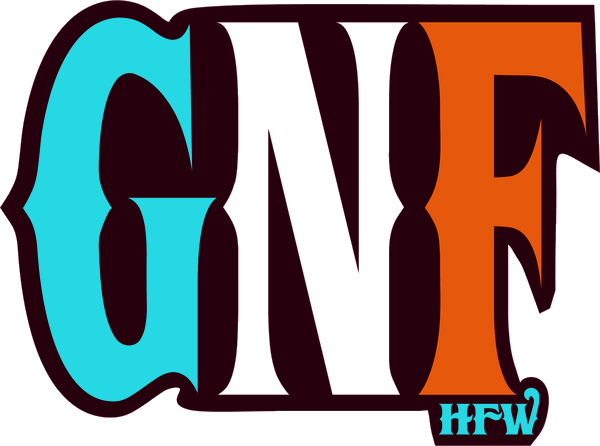
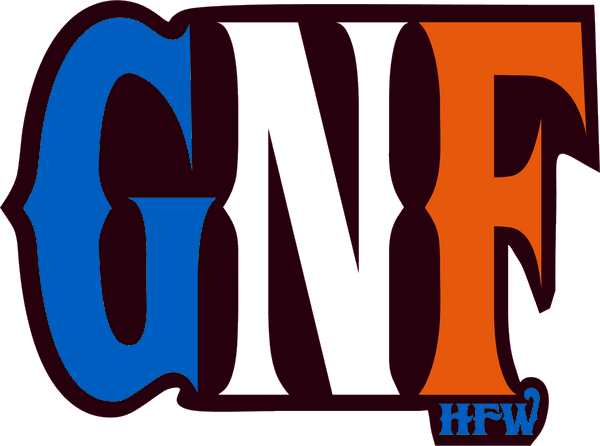
Fix overlapping stickers + remove all light blue from graphics
FIXES:
1. LIGHT BLUE → DARK BLUE: Pixel-level color correction on 3 stickers:
   - sticker-gnf-redblue.png: 39,963 light blue/teal pixels (R:38,G:198-228,B:202-228)
     → dark blue (R:1, G:64-94, B:140-193). Version bumped v=15
   - sticker-myob.png: 1,089 light blue pixels → dark blue. Version v=15
   - sticker-put-it-on-em.png: 442 light blue pixels → dark blue. Version v=15
   All blue now matches the sticker-gnf.png reference range (R:0, G:68-99, B:143-209)

2. OVERLAPPING FIXED: Switched from % positioning to fixed px edges:
   - All edge stickers now use 10px margin from container edge
   - Top row: 4 stickers at top:8-10px, corners at left/right:10px,
     inner pair at left/right:20%
   - Side columns: 2 per side at 28%/55% (left) and 26%/55% (right)
     with sufficient vertical gap for tall stickers
   - Bottom row: 4 stickers at bottom:10px, same horizontal pattern as top
   - Fill stickers: HFW and ThumpinLovin at bottom:20% on each side
   - Hero min-height: 75vh → 85vh for more vertical breathing room

3. Stickers sized smaller to prevent overlap:
   - Reduced from 90-150px to 78-140px range
   - Tall stickers (FunRide, ObamaTap, YesYouCan, ThumpinLovin) sized
     at 78-85px width to limit their height impact

Console errors: 0

Changed region(s): [[0.03, 0.0291, 0.36, 0.9036], [0.72, 0.8744, 0.9, 0.991]]

diff --git a/src/index.tsx b/src/index.tsx
@@ -221,8 +221,8 @@ const graphics = [
   {
     id: 'myob',
     name: 'MYOB (Mind Y\'own Business)',
-    thumbnail: '/images/stickers/sticker-myob.png?v=13',
-    fullImage: '/images/stickers/sticker-myob.png?v=13',
+    thumbnail: '/images/stickers/sticker-myob.png?v=15',
+    fullImage: '/images/stickers/sticker-myob.png?v=15',
     restrictToGarments: []
   },
   {
@@ -256,8 +256,8 @@ const graphics = [
   {
     id: 'put-it-on-em',
     name: 'Put It On Em',
-    thumbnail: '/images/stickers/sticker-put-it-on-em.png?v=13',
-    fullImage: '/images/stickers/sticker-put-it-on-em.png?v=13',
+    thumbnail: '/images/stickers/sticker-put-it-on-em.png?v=15',
+    fullImage: '/images/stickers/sticker-put-it-on-em.png?v=15',
     restrictToGarments: []
   },
   {
@@ -371,7 +371,7 @@ const decals = [
   { id: 'd2', title: 'Decal - Cling to Guns', vendor: 'Hillbilly Fightwear', price: '$7.00', priceNum: 7, image: '/images/stickers/sticker-your-neck.png?v=13', type: 'decal' },
   { id: 'd3', title: 'Decal - Human Cockfighter', vendor: 'Hillbilly Fightwear', price: '$7.00', priceNum: 7, image: '/images/stickers/sticker-hcf.png?v=13', type: 'decal' },
   { id: 'd4', title: 'Decal - Fun Ride', vendor: 'Hillbilly Fightwear', price: '$7.00', priceNum: 7, image: '/images/stickers/sticker-fun-ride.png?v=13', type: 'decal' },
-  { id: 'd5', title: 'Decal - Put It On Em', vendor: 'Hillbilly Fightwear', price: '$7.00', priceNum: 7, image: '/images/stickers/sticker-put-it-on-em.png?v=13', type: 'decal' },
+  { id: 'd5', title: 'Decal - Put It On Em', vendor: 'Hillbilly Fightwear', price: '$7.00', priceNum: 7, image: '/images/stickers/sticker-put-it-on-em.png?v=15', type: 'decal' },
   { id: 'd6', title: 'Decal - Thump a Stranger', vendor: 'Hillbilly Fightwear', price: '$7.00', priceNum: 7, image: '/images/stickers/sticker-thump.png?v=13', type: 'decal' },
   { id: 'd7', title: 'Decal - Yes You Can', vendor: 'Hillbilly Fightwear', price: '$7.00', priceNum: 7, image: '/images/stickers/sticker-yes-you-can.png?v=13', type: 'decal' },
   { id: 'd8', title: 'Decal - Obama Tap', vendor: 'Hillbilly Fightwear', price: '$7.00', priceNum: 7, image: '/images/stickers/sticker-obama-tap.png?v=13', type: 'decal' },
@@ -380,7 +380,7 @@ const decals = [
   { id: 'd11', title: 'Decal - GNF Red/Blue', vendor: 'Hillbilly Fightwear', price: '$7.00', priceNum: 7, image: '/images/stickers/sticker-gnf-redblue.png?v=15', type: 'decal' },
   { id: 'd12', title: 'Decal - Thumpin Is Lovin', vendor: 'Hillbilly Fightwear', price: '$7.00', priceNum: 7, image: '/images/stickers/sticker-thumpin-is-lovin.png?v=13', type: 'decal' },
   { id: 'd13', title: 'Decal - Good for Community', vendor: 'Hillbilly Fightwear', price: '$7.00', priceNum: 7, image: '/images/stickers/sticker-community.png?v=13', type: 'decal' },
-  { id: 'd14', title: 'Decals - Mind Yown Business', vendor: 'Hillbilly Fightwear', price: '$7.00', priceNum: 7, image: '/images/stickers/sticker-myob.png?v=13', type: 'decal' }
+  { id: 'd14', title: 'Decals - Mind Yown Business', vendor: 'Hillbilly Fightwear', price: '$7.00', priceNum: 7, image: '/images/stickers/sticker-myob.png?v=15', type: 'decal' }
 ]
 
 // Combined shopProducts for API endpoint
@@ -1205,7 +1205,7 @@ app.get('/', (c) => {
     .scrapbook-hero {
       position: relative;
       width: 100%;
-      min-height: 75vh;
+      min-height: 85vh;
       background: #f5f5f0;
       overflow: hidden;
       display: flex;
@@ -1335,50 +1335,68 @@ app.get('/', (c) => {
        Rotations vary -8 to +8 deg for messy scrapbook feel.
        ======================================================= */
 
-    /* --- TOP ROW: 4 stickers spread evenly across the top --- */
-    .sticker-collage .sticker-1  { top: 2%;  left: 2%;   width: 150px; transform: rotate(-5deg);  --hover-rotate: rotate(-2deg); }  /* HCF wide 600x341 */
-    .sticker-collage .sticker-4  { top: 1%;  left: 22%;  width: 130px; transform: rotate(4deg);   --hover-rotate: rotate(2deg); }   /* Thump wide 600x481 */
-    .sticker-collage .sticker-2  { top: 2%;  right: 22%; width: 120px; transform: rotate(-3deg);  --hover-rotate: rotate(-1deg); }  /* GNF-RB sq 600x446 */
-    .sticker-collage .sticker-7  { top: 1%;  right: 2%;  width: 145px; transform: rotate(6deg);   --hover-rotate: rotate(3deg); }   /* YourNeck wide 600x344 */
+    /* --- TOP-LEFT corner --- */
+    .sticker-collage .sticker-1  { top: 10px;  left: 10px;  width: 140px; transform: rotate(-5deg);  --hover-rotate: rotate(-2deg); }  /* HCF wide 600x341 → ~80px tall */
 
-    /* --- LEFT SIDE: 2 stickers vertically spaced --- */
-    .sticker-collage .sticker-6  { top: 22%; left: 2%;   width: 120px; transform: rotate(5deg);   --hover-rotate: rotate(2deg); }   /* PutItOnEm sq 593x600 */
-    .sticker-collage .sticker-3  { top: 50%; left: 1%;   width: 95px;  transform: rotate(-7deg);  --hover-rotate: rotate(-3deg); }  /* ObamaTap tall 457x600 */
+    /* --- TOP, offset right of center-left --- */
+    .sticker-collage .sticker-4  { top: 8px;   left: 20%;   width: 120px; transform: rotate(4deg);   --hover-rotate: rotate(2deg); }   /* Thump wide 600x481 → ~96px tall */
 
-    /* --- RIGHT SIDE: 2 stickers vertically spaced --- */
-    .sticker-collage .sticker-5  { top: 20%; right: 2%;  width: 90px;  transform: rotate(-6deg);  --hover-rotate: rotate(-3deg); }  /* FunRide tall 345x600 */
-    .sticker-collage .sticker-8  { top: 48%; right: 1%;  width: 100px; transform: rotate(5deg);   --hover-rotate: rotate(2deg); }   /* YesYouCan tall 462x600 */
+    /* --- TOP, offset left of center-right --- */
+    .sticker-collage .sticker-2  { top: 10px;  right: 20%;  width: 110px; transform: rotate(-3deg);  --hover-rotate: rotate(-1deg); }  /* GNF-RB sq 600x446 → ~82px tall */
 
-    /* --- BOTTOM ROW: 4 stickers spread evenly across the bottom --- */
-    .sticker-collage .sticker-10 { bottom: 1%; left: 2%;  width: 140px; transform: rotate(3deg);   --hover-rotate: rotate(1deg); }   /* Community banner 600x178 */
-    .sticker-collage .sticker-12 { bottom: 1%; left: 22%; width: 120px; transform: rotate(-5deg);  --hover-rotate: rotate(-2deg); }  /* GNF sq 600x446 */
-    .sticker-collage .sticker-13 { bottom: 2%; right: 22%; width: 140px; transform: rotate(4deg);  --hover-rotate: rotate(2deg); }   /* MYOB banner 600x158 */
-    .sticker-collage .sticker-14 { bottom: 1%; right: 2%;  width: 135px; transform: rotate(-6deg); --hover-rotate: rotate(-3deg); }  /* Cunt wide 600x241 */
+    /* --- TOP-RIGHT corner --- */
+    .sticker-collage .sticker-7  { top: 8px;   right: 10px; width: 135px; transform: rotate(6deg);   --hover-rotate: rotate(3deg); }   /* YourNeck wide 600x344 → ~77px tall */
 
-    /* --- FILL stickers: in transition zones between top/sides and sides/bottom --- */
-    .sticker-collage .sticker-11 { bottom: 24%; left: 1%; width: 135px; transform: rotate(-4deg);  --hover-rotate: rotate(-2deg); }  /* HFW wide 600x304 */
-    .sticker-collage .sticker-9  { bottom: 24%; right: 1%; width: 95px; transform: rotate(7deg);   --hover-rotate: rotate(3deg); }   /* ThumpinLovin tall 512x600 */
+    /* --- LEFT upper-middle (below top-left sticker) --- */
+    .sticker-collage .sticker-6  { top: 28%;   left: 10px;  width: 110px; transform: rotate(5deg);   --hover-rotate: rotate(2deg); }   /* PutItOnEm sq 593x600 → ~111px tall */
 
-    /* Tablet — scale down proportionally */
+    /* --- LEFT lower-middle --- */
+    .sticker-collage .sticker-3  { top: 55%;   left: 10px;  width: 80px;  transform: rotate(-7deg);  --hover-rotate: rotate(-3deg); }  /* ObamaTap tall 457x600 → ~105px tall */
+
+    /* --- RIGHT upper-middle (below top-right sticker) --- */
+    .sticker-collage .sticker-5  { top: 26%;   right: 10px; width: 78px;  transform: rotate(-6deg);  --hover-rotate: rotate(-3deg); }  /* FunRide tall 345x600 → ~136px tall */
+
+    /* --- RIGHT lower-middle --- */
+    .sticker-collage .sticker-8  { top: 55%;   right: 10px; width: 85px;  transform: rotate(5deg);   --hover-rotate: rotate(2deg); }   /* YesYouCan tall 462x600 → ~110px tall */
+
+    /* --- BOTTOM-LEFT corner --- */
+    .sticker-collage .sticker-10 { bottom: 10px; left: 10px;  width: 130px; transform: rotate(3deg);  --hover-rotate: rotate(1deg); }  /* Community banner 600x178 → ~39px tall */
+
+    /* --- BOTTOM, offset right of center-left --- */
+    .sticker-collage .sticker-12 { bottom: 10px; left: 20%;   width: 110px; transform: rotate(-5deg); --hover-rotate: rotate(-2deg); }  /* GNF sq 600x446 → ~82px tall */
+
+    /* --- BOTTOM, offset left of center-right --- */
+    .sticker-collage .sticker-13 { bottom: 10px; right: 20%;  width: 130px; transform: rotate(4deg);  --hover-rotate: rotate(2deg); }  /* MYOB banner 600x158 → ~34px tall */
+
+    /* --- BOTTOM-RIGHT corner --- */
+    .sticker-collage .sticker-14 { bottom: 10px; right: 10px; width: 125px; transform: rotate(-6deg); --hover-rotate: rotate(-3deg); } /* Cunt wide 600x241 → ~50px tall */
+
+    /* --- LEFT, between lower-middle and bottom --- */
+    .sticker-collage .sticker-11 { bottom: 20%; left: 10px;   width: 125px; transform: rotate(-4deg); --hover-rotate: rotate(-2deg); } /* HFW wide 600x304 → ~63px tall */
+
+    /* --- RIGHT, between lower-middle and bottom --- */
+    .sticker-collage .sticker-9  { bottom: 20%; right: 10px;  width: 85px;  transform: rotate(7deg);  --hover-rotate: rotate(3deg); }  /* ThumpinLovin tall 512x600 → ~100px tall */
+
+    /* Tablet */
     @media (max-width: 1024px) {
       .scrapbook-hero { min-height: 80vh; }
-      .sticker-collage .sticker-1  { width: 115px; }
-      .sticker-collage .sticker-4  { width: 100px; }
-      .sticker-collage .sticker-2  { width: 95px; }
-      .sticker-collage .sticker-7  { width: 110px; }
-      .sticker-collage .sticker-6  { width: 95px; }
-      .sticker-collage .sticker-3  { width: 75px; }
-      .sticker-collage .sticker-5  { width: 70px; }
-      .sticker-collage .sticker-8  { width: 80px; }
-      .sticker-collage .sticker-10 { width: 110px; }
-      .sticker-collage .sticker-12 { width: 95px; }
-      .sticker-collage .sticker-13 { width: 110px; }
-      .sticker-collage .sticker-14 { width: 105px; }
-      .sticker-collage .sticker-11 { width: 105px; }
-      .sticker-collage .sticker-9  { width: 75px; }
+      .sticker-collage .sticker-1  { width: 110px; }
+      .sticker-collage .sticker-4  { width: 95px; }
+      .sticker-collage .sticker-2  { width: 88px; }
+      .sticker-collage .sticker-7  { width: 108px; }
+      .sticker-collage .sticker-6  { width: 88px; }
+      .sticker-collage .sticker-3  { width: 65px; }
+      .sticker-collage .sticker-5  { width: 62px; }
+      .sticker-collage .sticker-8  { width: 68px; }
+      .sticker-collage .sticker-10 { width: 105px; }
+      .sticker-collage .sticker-12 { width: 88px; }
+      .sticker-collage .sticker-13 { width: 105px; }
+      .sticker-collage .sticker-14 { width: 100px; }
+      .sticker-collage .sticker-11 { width: 100px; }
+      .sticker-collage .sticker-9  { width: 68px; }
     }
 
-    /* Mobile — tighter ring around smaller logo */
+    /* Mobile */
     @media (max-width: 768px) {
       .scrapbook-hero { min-height: 100vh; }
       .scrapbook-center { max-width: 200px; padding: 15px 10px; }
@@ -1387,49 +1405,45 @@ app.get('/', (c) => {
       .scrapbook-cta a { padding: 7px 18px; font-size: 0.75rem; }
       .scrapbook-cta { flex-direction: column; align-items: center; gap: 6px; }
 
-      /* Top row — 4 across */
-      .sticker-collage .sticker-1  { top: 1%;  left: 1%;   width: 78px !important; }
-      .sticker-collage .sticker-4  { top: 1%;  left: 22%;  width: 70px !important; }
-      .sticker-collage .sticker-2  { top: 1%;  right: 20%; left: auto; width: 62px !important; }
-      .sticker-collage .sticker-7  { top: 1%;  right: 1%;  left: auto; width: 75px !important; }
-
+      /* Top row */
+      .sticker-collage .sticker-1  { top: 5px;  left: 5px;   width: 72px !important; }
+      .sticker-collage .sticker-4  { top: 5px;  left: 22%;   width: 64px !important; }
+      .sticker-collage .sticker-2  { top: 5px;  right: 20%;  left: auto; width: 58px !important; }
+      .sticker-collage .sticker-7  { top: 5px;  right: 5px;  left: auto; width: 70px !important; }
       /* Left side */
-      .sticker-collage .sticker-6  { top: 14%; left: 1%;  right: auto; width: 65px !important; }
-      .sticker-collage .sticker-3  { top: 33%; left: 1%;  right: auto; width: 50px !important; }
-
+      .sticker-collage .sticker-6  { top: 16%; left: 5px;  right: auto; width: 58px !important; }
+      .sticker-collage .sticker-3  { top: 36%; left: 5px;  right: auto; width: 44px !important; }
       /* Right side */
-      .sticker-collage .sticker-5  { top: 13%; right: 1%; left: auto; width: 46px !important; }
-      .sticker-collage .sticker-8  { top: 32%; right: 1%; left: auto; width: 52px !important; }
-
+      .sticker-collage .sticker-5  { top: 15%; right: 5px; left: auto; width: 42px !important; }
+      .sticker-collage .sticker-8  { top: 35%; right: 5px; left: auto; width: 46px !important; }
       /* Lower flanks */
-      .sticker-collage .sticker-11 { top: auto; bottom: 18%; left: 1%;  right: auto; width: 72px !important; }
-      .sticker-collage .sticker-9  { top: auto; bottom: 17%; right: 1%; left: auto; width: 50px !important; }
-
-      /* Bottom row — 4 across */
-      .sticker-collage .sticker-10 { bottom: 2%; left: 1%;   width: 72px !important; }
-      .sticker-collage .sticker-12 { bottom: 2%; left: 21%;  width: 58px !important; }
-      .sticker-collage .sticker-13 { bottom: 2%; right: 19%; left: auto; width: 72px !important; }
-      .sticker-collage .sticker-14 { bottom: 2%; right: 1%;  left: auto; width: 68px !important; }
+      .sticker-collage .sticker-11 { top: auto; bottom: 18%; left: 5px;  right: auto; width: 66px !important; }
+      .sticker-collage .sticker-9  { top: auto; bottom: 17%; right: 5px; left: auto; width: 44px !important; }
+      /* Bottom row */
+      .sticker-collage .sticker-10 { bottom: 5px; left: 5px;   width: 66px !important; }
+      .sticker-collage .sticker-12 { bottom: 5px; left: 21%;   width: 54px !important; }
+      .sticker-collage .sticker-13 { bottom: 5px; right: 19%;  left: auto; width: 66px !important; }
+      .sticker-collage .sticker-14 { bottom: 5px; right: 5px;  left: auto; width: 62px !important; }
     }
 
     /* Small phones */
     @media (max-width: 400px) {
       .scrapbook-center img { max-width: 140px; }
       .scrapbook-tagline { font-size: 0.7rem; letter-spacing: 2px; }
-      .sticker-collage .sticker-1  { width: 62px !important; }
-      .sticker-collage .sticker-4  { width: 56px !important; }
-      .sticker-collage .sticker-2  { width: 50px !important; }
-      .sticker-collage .sticker-7  { width: 60px !important; }
-      .sticker-collage .sticker-6  { width: 52px !important; }
-      .sticker-collage .sticker-3  { width: 40px !important; }
-      .sticker-collage .sticker-5  { width: 37px !important; }
-      .sticker-collage .sticker-8  { width: 42px !important; }
-      .sticker-collage .sticker-10 { width: 58px !important; }
-      .sticker-collage .sticker-12 { width: 46px !important; }
-      .sticker-collage .sticker-13 { width: 58px !important; }
-      .sticker-collage .sticker-14 { width: 54px !important; }
-      .sticker-collage .sticker-11 { width: 58px !important; }
-      .sticker-collage .sticker-9  { width: 40px !important; }
+      .sticker-collage .sticker-1  { width: 58px !important; }
+      .sticker-collage .sticker-4  { width: 52px !important; }
+      .sticker-collage .sticker-2  { width: 46px !important; }
+      .sticker-collage .sticker-7  { width: 56px !important; }
+      .sticker-collage .sticker-6  { width: 46px !important; }
+      .sticker-collage .sticker-3  { width: 36px !important; }
+      .sticker-collage .sticker-5  { width: 34px !important; }
+      .sticker-collage .sticker-8  { width: 38px !important; }
+      .sticker-collage .sticker-10 { width: 52px !important; }
+      .sticker-collage .sticker-12 { width: 44px !important; }
+      .sticker-collage .sticker-13 { width: 52px !important; }
+      .sticker-collage .sticker-14 { width: 50px !important; }
+      .sticker-collage .sticker-11 { width: 52px !important; }
+      .sticker-collage .sticker-9  { width: 36px !important; }
     }
   </style>
 </head>
@@ -1472,7 +1486,7 @@ app.get('/', (c) => {
       <img class="sticker sticker-4"  src="/images/stickers/sticker-thump.png?v=13"          alt="" loading="eager" draggable="false">
       <img class="sticker sticker-5"  src="/images/stickers/sticker-fun-ride.png?v=13"       alt="" loading="eager" draggable="false">
       <!-- MIDDLE ROW (flanking logo) -->
-      <img class="sticker sticker-6"  src="/images/stickers/sticker-put-it-on-em.png?v=13"   alt="" loading="eager" draggable="false">
+      <img class="sticker sticker-6"  src="/images/stickers/sticker-put-it-on-em.png?v=15"   alt="" loading="eager" draggable="false">
       <img class="sticker sticker-7"  src="/images/stickers/sticker-your-neck.png?v=13"      alt="" loading="eager" draggable="false">
       <img class="sticker sticker-8"  src="/images/stickers/sticker-yes-you-can.png?v=13"    alt="" loading="eager" draggable="false">
       <img class="sticker sticker-9"  src="/images/stickers/sticker-thumpin-is-lovin.png?v=13" alt="" loading="eager" draggable="false">
@@ -1480,7 +1494,7 @@ app.get('/', (c) => {
       <img class="sticker sticker-10" src="/images/stickers/sticker-community.png?v=13"      alt="" loading="eager" draggable="false">
       <img class="sticker sticker-11" src="/images/stickers/sticker-hfw.png?v=13"            alt="" loading="eager" draggable="false">
       <img class="sticker sticker-12" src="/images/stickers/sticker-gnf.png?v=13"            alt="" loading="eager" draggable="false">
-      <img class="sticker sticker-13" src="/images/stickers/sticker-myob.png?v=13"           alt="" loading="eager" draggable="false">
+      <img class="sticker sticker-13" src="/images/stickers/sticker-myob.png?v=15"           alt="" loading="eager" draggable="false">
       <img class="sticker sticker-14" src="/images/stickers/sticker-cunt.png?v=13"           alt="" loading="eager" draggable="false">
     </div>
 

diff --git a/public/static/tailwind.css b/public/static/tailwind.css
@@ -1,1 +1,1 @@
-*,:after,:before{--tw-border-spacing-x:0;--tw-border-spacing-y:0;--tw-translate-x:0;--tw-translate-y:0;--tw-rotate:0;--tw-skew-x:0;--tw-skew-y:0;--tw-scale-x:1;--tw-scale-y:1;--tw-pan-x: ;--tw-pan-y: ;--tw-pinch-zoom: ;--tw-scroll-snap-strictness:proximity;--tw-gradient-from-position: ;--tw-gradient-via-position: ;--tw-gradient-to-position: ;--tw-ordinal: ;--tw-slashed-zero: ;--tw-numeric-figure: ;--tw-numeric-spacing: ;--tw-numeric-fraction: ;--tw-ring-inset: ;--tw-ring-offset-width:0px;--tw-ring-offset-color:#fff;--tw-ring-color:rgba(59,130,246,.5);--tw-ring-offset-shadow:0 0 #0000;--tw-ring-shadow:0 0 #0000;--tw-shadow:0 0 #0000;--tw-shadow-colored:0 0 #0000;--tw-blur: ;--tw-brightness: ;--tw-contrast: ;--tw-grayscale: ;--tw-hue-rotate: ;--tw-invert: ;--tw-saturate: ;--tw-sepia: ;--tw-drop-shadow: ;--tw-backdrop-blur: ;--tw-backdrop-brightness: ;--tw-backdrop-contrast: ;--tw-backdrop-grayscale: ;--tw-backdrop-hue-rotate: ;--tw-backdrop-invert: ;--tw-backdrop-opacity: ;--tw-backdrop-saturate: ;--tw-backdrop-sepia: ;--tw-contain-size: ;--tw-contain-layout: ;--tw-contain-paint: ;--tw-contain-style: }::backdrop{--tw-border-spacing-x:0;--tw-border-spacing-y:0;--tw-translate-x:0;--tw-translate-y:0;--tw-rotate:0;--tw-skew-x:0;--tw-skew-y:0;--tw-scale-x:1;--tw-scale-y:1;--tw-pan-x: ;--tw-pan-y: ;--tw-pinch-zoom: ;--tw-scroll-snap-strictness:proximity;--tw-gradient-from-position: ;--tw-gradient-via-position: ;--tw-gradient-to-position: ;--tw-ordinal: ;--tw-slashed-zero: ;--tw-numeric-figure: ;--tw-numeric-spacing: ;--tw-numeric-fraction: ;--tw-ring-inset: ;--tw-ring-offset-width:0px;--tw-ring-offset-color:#fff;--tw-ring-color:rgba(59,130,246,.5);--tw-ring-offset-shadow:0 0 #0000;--tw-ring-shadow:0 0 #0000;--tw-shadow:0 0 #0000;--tw-shadow-colored:0 0 #0000;--tw-blur: ;--tw-brightness: ;--tw-contrast: ;--tw-grayscale: ;--tw-hue-rotate: ;--tw-invert: ;--tw-saturate: ;--tw-sepia: ;--tw-drop-shadow: ;--tw-backdrop-blur: ;--tw-backdrop-brightness: ;--tw-backdrop-contrast: ;--tw-backdrop-grayscale: ;--tw-backdrop-hue-rotate: ;--tw-backdrop-invert: ;--tw-backdrop-opacity: ;--tw-backdrop-saturate: ;--tw-backdrop-sepia: ;--tw-contain-size: ;--tw-contain-layout: ;--tw-contain-paint: ;--tw-contain-style: }/*! tailwindcss v3.4.19 | MIT License | https://tailwindcss.com*/*,:after,:before{box-sizing:border-box;border:0 solid #e5e7eb}:after,:before{--tw-content:""}:host,html{line-height:1.5;-webkit-text-size-adjust:100%;-moz-tab-size:4;-o-tab-size:4;tab-size:4;font-family:ui-sans-serif,system-ui,sans-serif,Apple Color Emoji,Segoe UI Emoji,Segoe UI Symbol,Noto Color Emoji;font-feature-settings:normal;font-variation-settings:normal;-webkit-tap-highlight-color:transparent}body{margin:0;line-height:inherit}hr{height:0;color:inherit;border-top-width:1px}abbr:where([title]){-webkit-text-decoration:underline dotted;text-decoration:underline dotted}h1,h2,h3,h4,h5,h6{font-size:inherit;font-weight:inherit}a{color:inherit;text-decoration:inherit}b,strong{font-weight:bolder}code,kbd,pre,samp{font-family:ui-monospace,SFMono-Regular,Menlo,Monaco,Consolas,Liberation Mono,Courier New,monospace;font-feature-settings:normal;font-variation-settings:normal;font-size:1em}small{font-size:80%}sub,sup{font-size:75%;line-height:0;position:relative;vertical-align:baseline}sub{bottom:-.25em}sup{top:-.5em}table{text-indent:0;border-color:inherit;border-collapse:collapse}button,input,optgroup,select,textarea{font-family:inherit;font-feature-settings:inherit;font-variation-settings:inherit;font-size:100%;font-weight:inherit;line-height:inherit;letter-spacing:inherit;color:inherit;margin:0;padding:0}button,select{text-transform:none}button,input:where([type=button]),input:where([type=reset]),input:where([type=submit]){-webkit-appearance:button;background-color:transparent;background-image:none}:-moz-focusring{outline:auto}:-moz-ui-invalid{box-shadow:none}progress{vertical-align:baseline}::-webkit-inner-spin-button,::-webkit-outer-spin-button{height:auto}[type=search]{-webkit-appearance:textfield;outline-offset:-2px}::-webkit-search-decoration{-webkit-appearance:none}::-webkit-file-upload-button{-webkit-appearance:button;font:inherit}summary{display:list-item}blockquote,dd,dl,figure,h1,h2,h3,h4,h5,h6,hr,p,pre{margin:0}fieldset{margin:0}fieldset,legend{padding:0}menu,ol,ul{list-style:none;margin:0;padding:0}dialog{padding:0}textarea{resize:vertical}input::-moz-placeholder,textarea::-moz-placeholder{opacity:1;color:#9ca3af}input::placeholder,textarea::placeholder{opacity:1;color:#9ca3af}[role=button],button{cursor:pointer}:disabled{cursor:default}audio,canvas,embed,iframe,img,object,svg,video{display:block;vertical-align:middle}img,video{max-width:100%;height:auto}[hidden]:where(:not([hidden=until-found])){display:none}.container{width:100%}@media (min-width:640px){.container{max-width:640px}}@media (min-width:768px){.container{max-width:768px}}@media (min-width:1024px){.container{max-width:1024px}}@media (min-width:1280px){.container{max-width:1280px}}@media (min-width:1536px){.container{max-width:1536px}}.sr-only{position:absolute;width:1px;height:1px;padding:0;margin:-1px;overflow:hidden;clip:rect(0,0,0,0);white-space:nowrap;border-width:0}.visible{visibility:visible}.collapse{visibility:collapse}.fixed{position:fixed}.absolute{position:absolute}.relative{position:relative}.sticky{position:sticky}.block{display:block}.inline{display:inline}.flex{display:flex}.table{display:table}.grid{display:grid}.hidden{display:none}.flex-shrink{flex-shrink:1}.border-collapse{border-collapse:collapse}.transform{transform:translate(var(--tw-translate-x),var(--tw-translate-y)) rotate(var(--tw-rotate)) skewX(var(--tw-skew-x)) skewY(var(--tw-skew-y)) scaleX(var(--tw-scale-x)) scaleY(var(--tw-scale-y))}.resize{resize:both}.flex-wrap{flex-wrap:wrap}.border{border-width:1px}.uppercase{text-transform:uppercase}.underline{text-decoration-line:underline}.antialiased{-webkit-font-smoothing:antialiased;-moz-osx-font-smoothing:grayscale}.outline{outline-style:solid}.ring{--tw-ring-offset-shadow:var(--tw-ring-inset) 0 0 0 var(--tw-ring-offset-width) var(--tw-ring-offset-color);--tw-ring-shadow:var(--tw-ring-inset) 0 0 0 calc(3px + var(--tw-ring-offset-width)) var(--tw-ring-color);box-shadow:var(--tw-ring-offset-shadow),var(--tw-ring-shadow),var(--tw-shadow,0 0 #0000)}.drop-shadow{--tw-drop-shadow:drop-shadow(0 1px 2px rgba(0,0,0,.1)) drop-shadow(0 1px 1px rgba(0,0,0,.06))}.drop-shadow,.grayscale{filter:var(--tw-blur) var(--tw-brightness) var(--tw-contrast) var(--tw-grayscale) var(--tw-hue-rotate) var(--tw-invert) var(--tw-saturate) var(--tw-sepia) var(--tw-drop-shadow)}.grayscale{--tw-grayscale:grayscale(100%)}.filter{filter:var(--tw-blur) var(--tw-brightness) var(--tw-contrast) var(--tw-grayscale) var(--tw-hue-rotate) var(--tw-invert) var(--tw-saturate) var(--tw-sepia) var(--tw-drop-shadow)}.transition{transition-property:color,background-color,border-color,text-decoration-color,fill,stroke,opacity,box-shadow,transform,filter,-webkit-backdrop-filter;transition-property:color,background-color,border-color,text-decoration-color,fill,stroke,opacity,box-shadow,transform,filter,backdrop-filter;transition-property:color,background-color,border-color,text-decoration-color,fill,stroke,opacity,box-shadow,transform,filter,backdrop-filter,-webkit-backdrop-filter;transition-timing-function:cubic-bezier(.4,0,.2,1);transition-duration:.15s}.ease-in-out{transition-timing-function:cubic-bezier(.4,0,.2,1)}
+*,:after,:before{--tw-border-spacing-x:0;--tw-border-spacing-y:0;--tw-translate-x:0;--tw-translate-y:0;--tw-rotate:0;--tw-skew-x:0;--tw-skew-y:0;--tw-scale-x:1;--tw-scale-y:1;--tw-pan-x: ;--tw-pan-y: ;--tw-pinch-zoom: ;--tw-scroll-snap-strictness:proximity;--tw-gradient-from-position: ;--tw-gradient-via-position: ;--tw-gradient-to-position: ;--tw-ordinal: ;--tw-slashed-zero: ;--tw-numeric-figure: ;--tw-numeric-spacing: ;--tw-numeric-fraction: ;--tw-ring-inset: ;--tw-ring-offset-width:0px;--tw-ring-offset-color:#fff;--tw-ring-color:rgba(59,130,246,.5);--tw-ring-offset-shadow:0 0 #0000;--tw-ring-shadow:0 0 #0000;--tw-shadow:0 0 #0000;--tw-shadow-colored:0 0 #0000;--tw-blur: ;--tw-brightness: ;--tw-contrast: ;--tw-grayscale: ;--tw-hue-rotate: ;--tw-invert: ;--tw-saturate: ;--tw-sepia: ;--tw-drop-shadow: ;--tw-backdrop-blur: ;--tw-backdrop-brightness: ;--tw-backdrop-contrast: ;--tw-backdrop-grayscale: ;--tw-backdrop-hue-rotate: ;--tw-backdrop-invert: ;--tw-backdrop-opacity: ;--tw-backdrop-saturate: ;--tw-backdrop-sepia: ;--tw-contain-size: ;--tw-contain-layout: ;--tw-contain-paint: ;--tw-contain-style: }::backdrop{--tw-border-spacing-x:0;--tw-border-spacing-y:0;--tw-translate-x:0;--tw-translate-y:0;--tw-rotate:0;--tw-skew-x:0;--tw-skew-y:0;--tw-scale-x:1;--tw-scale-y:1;--tw-pan-x: ;--tw-pan-y: ;--tw-pinch-zoom: ;--tw-scroll-snap-strictness:proximity;--tw-gradient-from-position: ;--tw-gradient-via-position: ;--tw-gradient-to-position: ;--tw-ordinal: ;--tw-slashed-zero: ;--tw-numeric-figure: ;--tw-numeric-spacing: ;--tw-numeric-fraction: ;--tw-ring-inset: ;--tw-ring-offset-width:0px;--tw-ring-offset-color:#fff;--tw-ring-color:rgba(59,130,246,.5);--tw-ring-offset-shadow:0 0 #0000;--tw-ring-shadow:0 0 #0000;--tw-shadow:0 0 #0000;--tw-shadow-colored:0 0 #0000;--tw-blur: ;--tw-brightness: ;--tw-contrast: ;--tw-grayscale: ;--tw-hue-rotate: ;--tw-invert: ;--tw-saturate: ;--tw-sepia: ;--tw-drop-shadow: ;--tw-backdrop-blur: ;--tw-backdrop-brightness: ;--tw-backdrop-contrast: ;--tw-backdrop-grayscale: ;--tw-backdrop-hue-rotate: ;--tw-backdrop-invert: ;--tw-backdrop-opacity: ;--tw-backdrop-saturate: ;--tw-backdrop-sepia: ;--tw-contain-size: ;--tw-contain-layout: ;--tw-contain-paint: ;--tw-contain-style: }/*! tailwindcss v3.4.19 | MIT License | https://tailwindcss.com*/*,:after,:before{box-sizing:border-box;border:0 solid #e5e7eb}:after,:before{--tw-content:""}:host,html{line-height:1.5;-webkit-text-size-adjust:100%;-moz-tab-size:4;-o-tab-size:4;tab-size:4;font-family:ui-sans-serif,system-ui,sans-serif,Apple Color Emoji,Segoe UI Emoji,Segoe UI Symbol,Noto Color Emoji;font-feature-settings:normal;font-variation-settings:normal;-webkit-tap-highlight-color:transparent}body{margin:0;line-height:inherit}hr{height:0;color:inherit;border-top-width:1px}abbr:where([title]){-webkit-text-decoration:underline dotted;text-decoration:underline dotted}h1,h2,h3,h4,h5,h6{font-size:inherit;font-weight:inherit}a{color:inherit;text-decoration:inherit}b,strong{font-weight:bolder}code,kbd,pre,samp{font-family:ui-monospace,SFMono-Regular,Menlo,Monaco,Consolas,Liberation Mono,Courier New,monospace;font-feature-settings:normal;font-variation-settings:normal;font-size:1em}small{font-size:80%}sub,sup{font-size:75%;line-height:0;position:relative;vertical-align:baseline}sub{bottom:-.25em}sup{top:-.5em}table{text-indent:0;border-color:inherit;border-collapse:collapse}button,input,optgroup,select,textarea{font-family:inherit;font-feature-settings:inherit;font-variation-settings:inherit;font-size:100%;font-weight:inherit;line-height:inherit;letter-spacing:inherit;color:inherit;margin:0;padding:0}button,select{text-transform:none}button,input:where([type=button]),input:where([type=reset]),input:where([type=submit]){-webkit-appearance:button;background-color:transparent;background-image:none}:-moz-focusring{outline:auto}:-moz-ui-invalid{box-shadow:none}progress{vertical-align:baseline}::-webkit-inner-spin-button,::-webkit-outer-spin-button{height:auto}[type=search]{-webkit-appearance:textfield;outline-offset:-2px}::-webkit-search-decoration{-webkit-appearance:none}::-webkit-file-upload-button{-webkit-appearance:button;font:inherit}summary{display:list-item}blockquote,dd,dl,figure,h1,h2,h3,h4,h5,h6,hr,p,pre{margin:0}fieldset{margin:0}fieldset,legend{padding:0}menu,ol,ul{list-style:none;margin:0;padding:0}dialog{padding:0}textarea{resize:vertical}input::-moz-placeholder,textarea::-moz-placeholder{opacity:1;color:#9ca3af}input::placeholder,textarea::placeholder{opacity:1;color:#9ca3af}[role=button],button{cursor:pointer}:disabled{cursor:default}audio,canvas,embed,iframe,img,object,svg,video{display:block;vertical-align:middle}img,video{max-width:100%;height:auto}[hidden]:where(:not([hidden=until-found])){display:none}.container{width:100%}@media (min-width:640px){.container{max-width:640px}}@media (min-width:768px){.container{max-width:768px}}@media (min-width:1024px){.container{max-width:1024px}}@media (min-width:1280px){.container{max-width:1280px}}@media (min-width:1536px){.container{max-width:1536px}}.sr-only{position:absolute;width:1px;height:1px;padding:0;margin:-1px;overflow:hidden;clip:rect(0,0,0,0);white-space:nowrap;border-width:0}.visible{visibility:visible}.collapse{visibility:collapse}.fixed{position:fixed}.absolute{position:absolute}.relative{position:relative}.sticky{position:sticky}.block{display:block}.inline{display:inline}.flex{display:flex}.table{display:table}.grid{display:grid}.hidden{display:none}.flex-shrink{flex-shrink:1}.border-collapse{border-collapse:collapse}.transform{transform:translate(var(--tw-translate-x),var(--tw-translate-y)) rotate(var(--tw-rotate)) skewX(var(--tw-skew-x)) skewY(var(--tw-skew-y)) scaleX(var(--tw-scale-x)) scaleY(var(--tw-scale-y))}.resize{resize:both}.flex-wrap{flex-wrap:wrap}.border{border-width:1px}.uppercase{text-transform:uppercase}.underline{text-decoration-line:underline}.antialiased{-webkit-font-smoothing:antialiased;-moz-osx-font-smoothing:grayscale}.outline{outline-style:solid}.drop-shadow{--tw-drop-shadow:drop-shadow(0 1px 2px rgba(0,0,0,.1)) drop-shadow(0 1px 1px rgba(0,0,0,.06))}.drop-shadow,.grayscale{filter:var(--tw-blur) var(--tw-brightness) var(--tw-contrast) var(--tw-grayscale) var(--tw-hue-rotate) var(--tw-invert) var(--tw-saturate) var(--tw-sepia) var(--tw-drop-shadow)}.grayscale{--tw-grayscale:grayscale(100%)}.filter{filter:var(--tw-blur) var(--tw-brightness) var(--tw-contrast) var(--tw-grayscale) var(--tw-hue-rotate) var(--tw-invert) var(--tw-saturate) var(--tw-sepia) var(--tw-drop-shadow)}.transition{transition-property:color,background-color,border-color,text-decoration-color,fill,stroke,opacity,box-shadow,transform,filter,-webkit-backdrop-filter;transition-property:color,background-color,border-color,text-decoration-color,fill,stroke,opacity,box-shadow,transform,filter,backdrop-filter;transition-property:color,background-color,border-color,text-decoration-color,fill,stroke,opacity,box-shadow,transform,filter,backdrop-filter,-webkit-backdrop-filter;transition-timing-function:cubic-bezier(.4,0,.2,1);transition-duration:.15s}.ease-in-out{transition-timing-function:cubic-bezier(.4,0,.2,1)}
